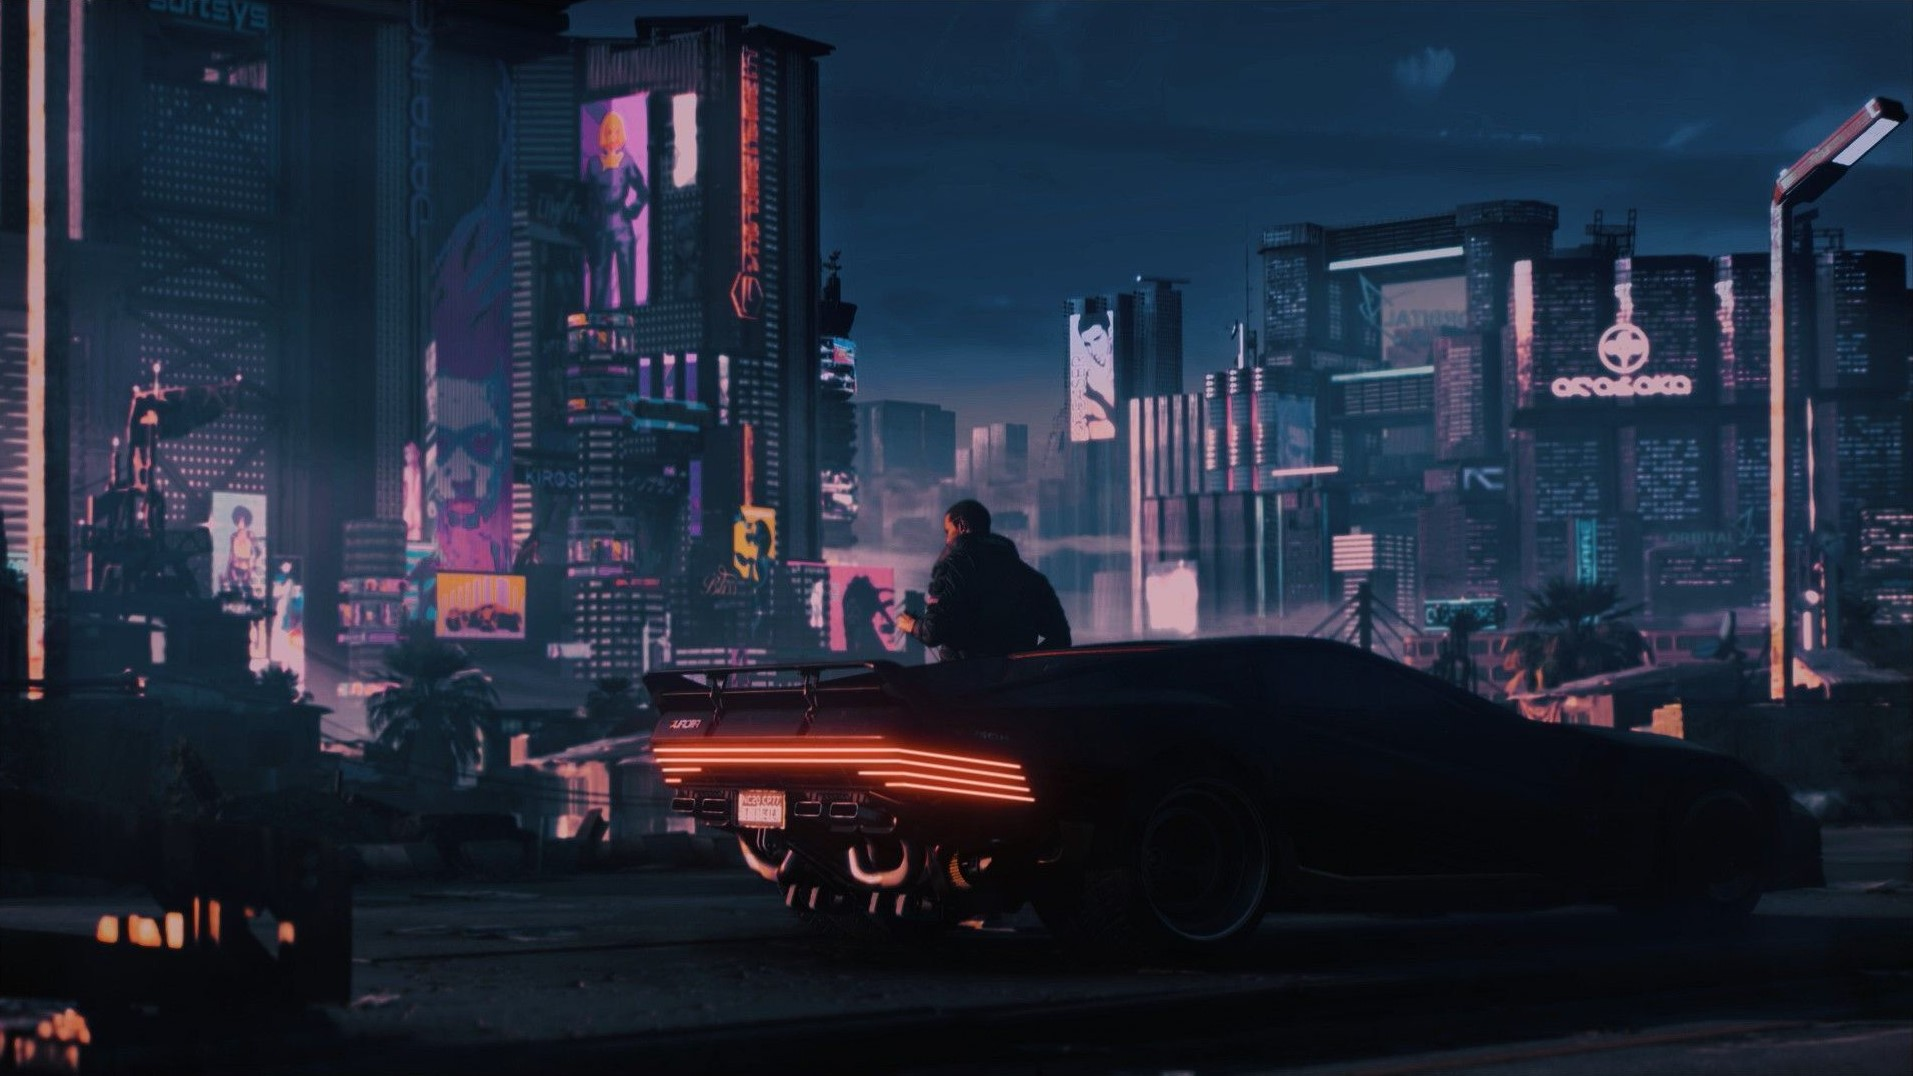
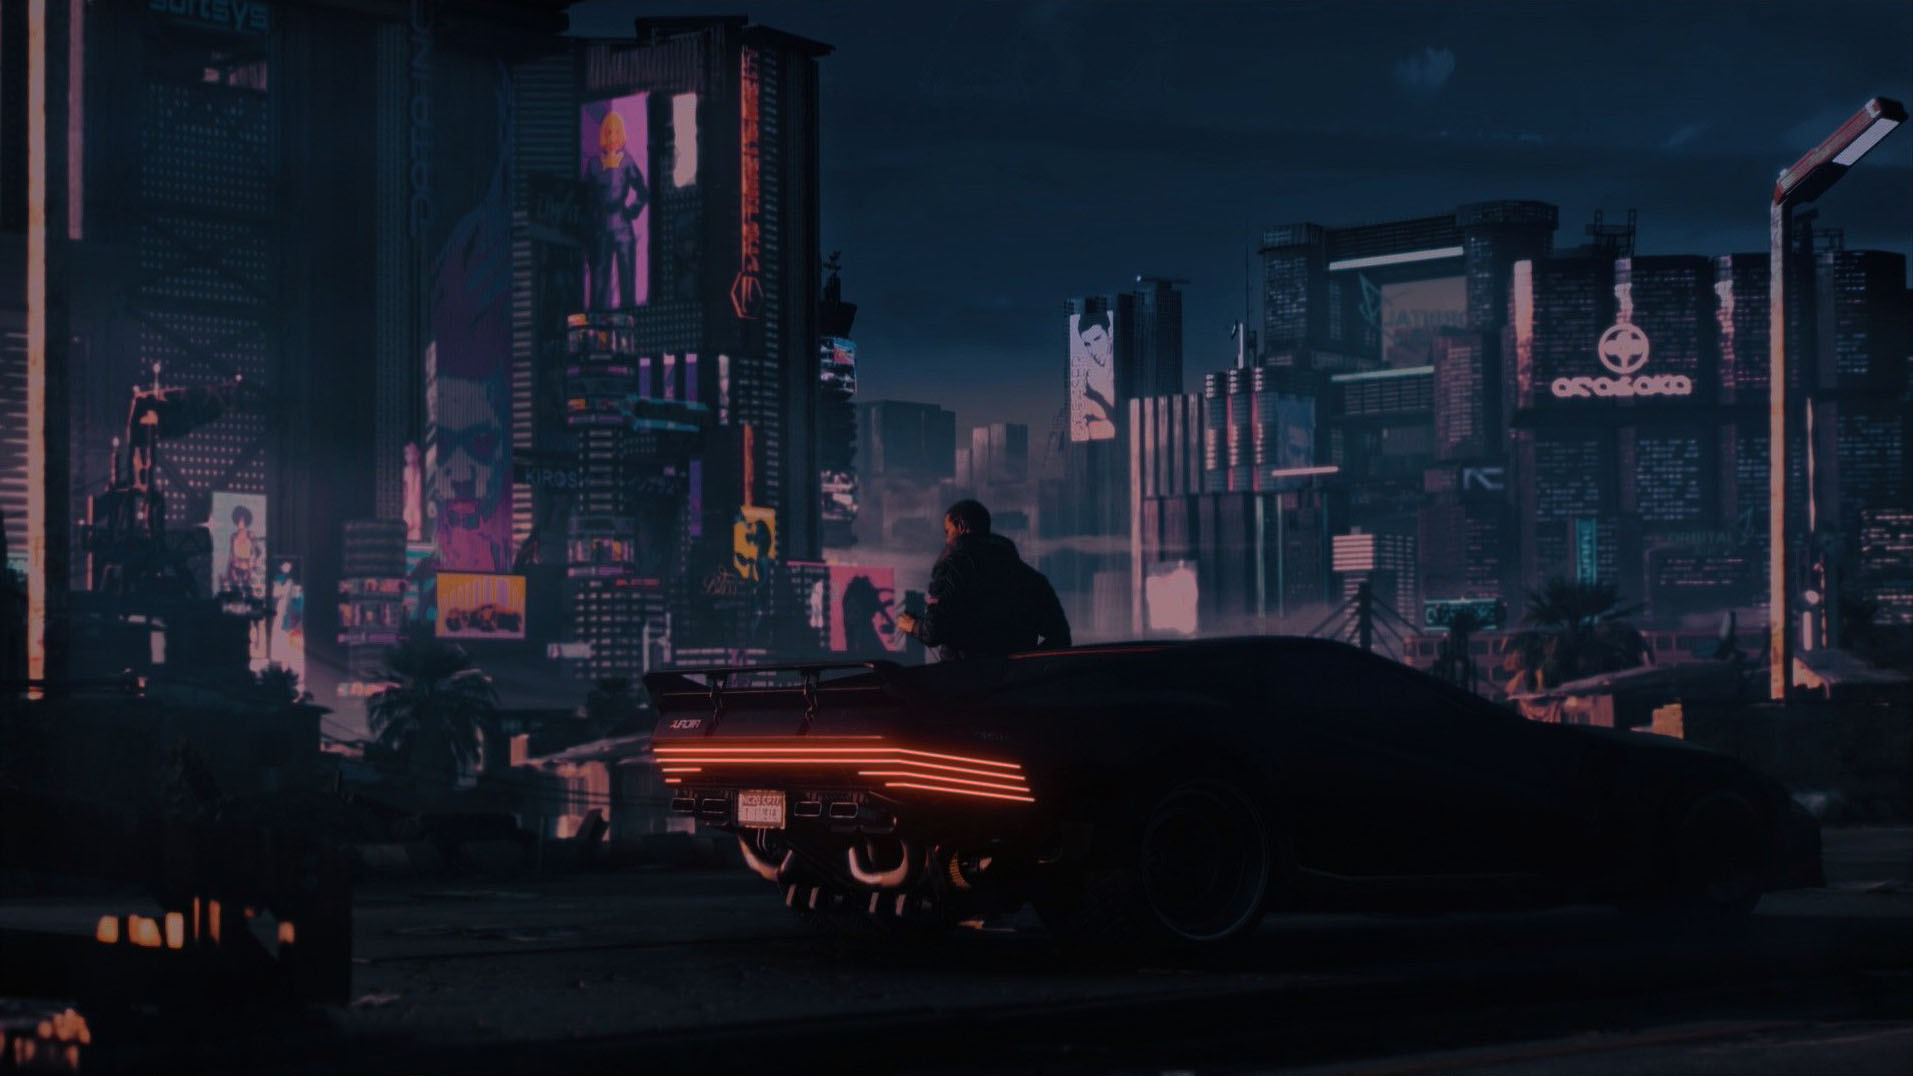
Изменена картинка на заднем фоне и внесены мелкие исправления

diff --git a/products/templates/products/index.html b/products/templates/products/index.html
@@ -1,7 +1,7 @@
 {% extends 'products/base.html' %}
 {% load static %}
 {% block css %}
-    <link href="{% static 'css/style.css' %}" rel="stylesheet">
+    <link href="{% static 'css/index.css' %}" rel="stylesheet">
 {% endblock %}
 {% block content %} 
     <section class="hero">
